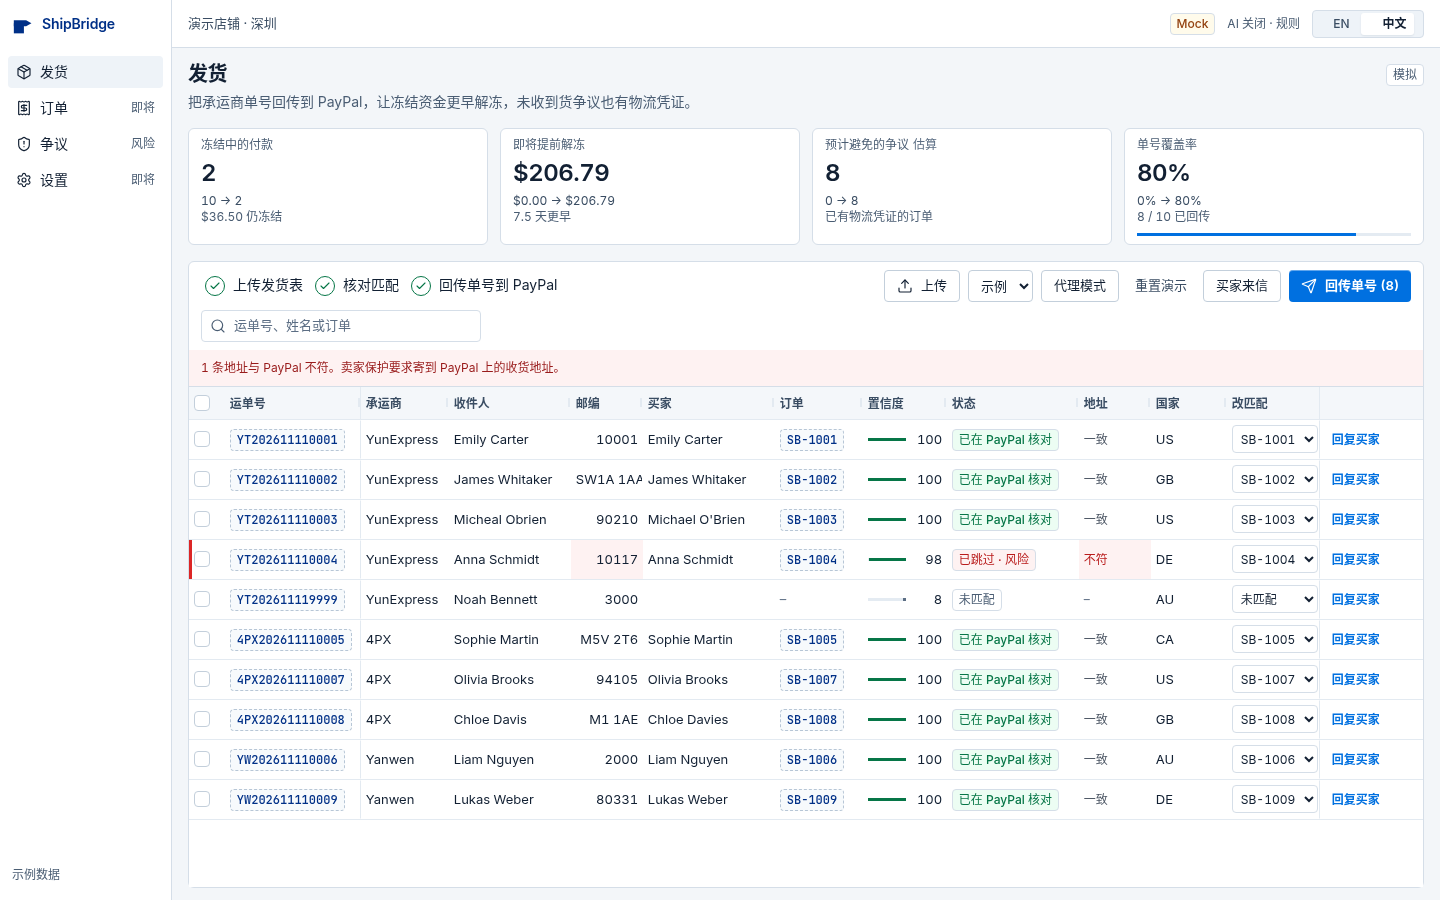
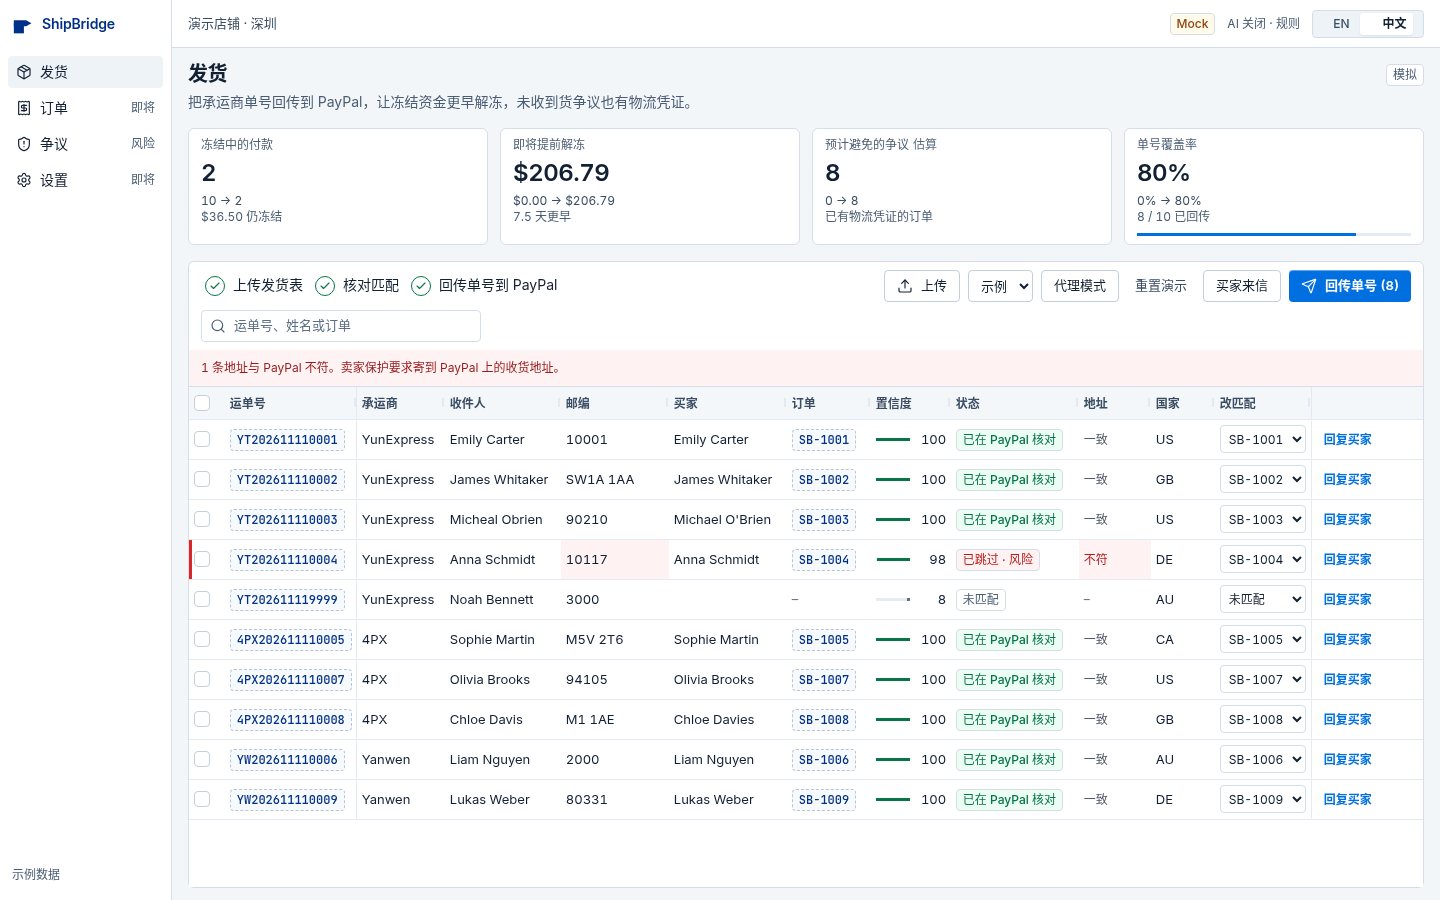
Move the sync toast clear of the grid and stop postcode clipping.
The toast sits under the top bar, postcodes are left-aligned and wide enough for SW1A 1AA, and the hero capture includes padding.

diff --git a/components/MatchGrid.tsx b/components/MatchGrid.tsx
@@ -151,7 +151,7 @@ function PostcodeCell(props: ICellRendererParams<GridRow, string, GridContext>) 
   const mismatch = Boolean(row && order && postcodeMismatch(row.postcode, order.postalCode));
   const title = row && mismatch ? mismatchTitle(row, order, props.context.copy) : undefined;
   return (
-    <span title={title} data-mismatch={mismatch ? "postcode" : undefined} className="block text-right tabular-nums">
+    <span title={title} data-mismatch={mismatch ? "postcode" : undefined} className="block text-left">
       {props.value || EMPTY}
     </span>
   );
@@ -269,8 +269,8 @@ export default function MatchGrid({
       {
         field: "trackingNumber",
         headerName: copy.colTracking,
-        width: 136,
-        minWidth: 132,
+        width: 132,
+        minWidth: 128,
         maxWidth: 148,
         pinned: "left",
         suppressSizeToFit: true,
@@ -278,13 +278,12 @@ export default function MatchGrid({
         cellRenderer: TrackingCell,
       },
       { field: "carrier", headerName: copy.colCarrier, width: 88, minWidth: 84 },
-      { field: "recipientName", headerName: copy.colRecipient, minWidth: 122, flex: 1, tooltipField: "recipientName" },
+      { field: "recipientName", headerName: copy.colRecipient, width: 116, minWidth: 116, flex: 1, tooltipField: "recipientName" },
       {
         field: "postcode",
         headerName: copy.colPostcode,
-        width: 72,
-        minWidth: 68,
-        type: "rightAligned",
+        width: 108,
+        minWidth: 104,
         suppressSizeToFit: true,
         cellRenderer: PostcodeCell,
         cellStyle: riskCellStyle,
@@ -295,16 +294,16 @@ export default function MatchGrid({
           return row?.postcode || undefined;
         },
       },
-      { field: "buyerName", headerName: copy.colBuyer, minWidth: 132, flex: 1.15, tooltipField: "buyerName" },
-      { field: "matchedOrderId", headerName: copy.colOrder, width: 88, minWidth: 84, cellRenderer: OrderCell },
-      { field: "confidence", headerName: copy.colConfidence, width: 84, minWidth: 80, type: "rightAligned", cellRenderer: ConfidenceCell },
-      { headerName: copy.colSync, width: 132, minWidth: 124, suppressSizeToFit: true, cellRenderer: StatusCell },
+      { field: "buyerName", headerName: copy.colBuyer, width: 112, minWidth: 112, flex: 1.15, tooltipField: "buyerName" },
+      { field: "matchedOrderId", headerName: copy.colOrder, width: 84, minWidth: 80, cellRenderer: OrderCell },
+      { field: "confidence", headerName: copy.colConfidence, width: 80, minWidth: 76, type: "rightAligned", cellRenderer: ConfidenceCell },
+      { headerName: copy.colSync, width: 128, minWidth: 124, suppressSizeToFit: true, cellRenderer: StatusCell },
       { headerName: copy.colAddress, width: 72, minWidth: 68, cellRenderer: AddressCell, cellStyle: riskCellStyle },
       {
         field: "country",
         headerName: copy.colCountry,
-        width: 76,
-        minWidth: 76,
+        width: 64,
+        minWidth: 60,
         suppressSizeToFit: true,
         cellRenderer: CountryCell,
         cellStyle: riskCellStyle,
@@ -319,9 +318,9 @@ export default function MatchGrid({
       { headerName: copy.colOverride, width: 96, minWidth: 92, suppressSizeToFit: true, cellRenderer: OverrideCell, sortable: false },
       {
         headerName: "",
-        width: 104,
-        minWidth: 100,
-        maxWidth: 112,
+        width: 112,
+        minWidth: 108,
+        maxWidth: 128,
         pinned: "right",
         suppressSizeToFit: true,
         cellRenderer: ReplyCell,

diff --git a/components/AppShell.tsx b/components/AppShell.tsx
@@ -627,7 +627,7 @@ export default function AppShell() {
         {view === "shipments" ? (
           <div className="flex min-h-0 flex-1 flex-col px-4 py-3">
             <div data-testid="hero">
-              <div className="flex items-start justify-between gap-4">
+              <div className={`flex items-start justify-between gap-4 ${toasts.length ? "pr-[336px]" : ""}`}>
                 <div className="min-w-0">
                   <h1 className="text-[20px] font-semibold leading-7 tracking-tight">{copy.pageTitle}</h1>
                   <p data-testid="hero-pitch" className="mt-1 max-w-3xl text-[14px] leading-5 text-sb-muted">
@@ -940,7 +940,7 @@ export default function AppShell() {
         </div>
       ) : null}
 
-      <div className="pointer-events-none fixed right-4 bottom-4 z-30 flex w-[320px] max-w-[calc(100vw-2rem)] flex-col gap-2">
+      <div className="pointer-events-none fixed top-14 right-4 z-30 flex w-[320px] max-w-[calc(100vw-2rem)] flex-col gap-2">
         {toasts.map((toast) => (
           <button
             key={toast.id}

diff --git a/STATUS.md b/STATUS.md
@@ -14,7 +14,7 @@ Updated 2026-11-12 after the token-and-waybill visual pass (mock and sandbox).
 - Mock mode is stateless on the server. Orders are seeded from the fixed catalog. The browser keeps orders and trackers in `localStorage`. Sync and read-back send that state and get the next copy back. Read-back is true only when the tracking number is on the returned order. **Reset demo** clears `localStorage`. Sandbox and live mode stay on server-side REST.
 - After a verified sync, payments on hold count down and “Releasing early” counts up, with a short green tint. Sample run: 10 → 2 on hold, $0.00 → $206.79 releasing early, 7.5 days earlier. “Simulated” is a muted tag. Disputes avoided (est.) is the synced count. Tracking coverage is synced/total.
 - Sandbox seed (`scripts/seed-sandbox.ts`) creates COMPLETED captures with `payment_source.card` and `PayPal-Request-Id`. The gitignored registry `.data/sandbox-orders.json` is what `GET /api/orders` lists, via `GET /v2/checkout/orders/{id}`. Transaction Search is not used. `scripts/capture.ts` finishes any order that still needs a buyer approval.
-- Buyer reply opens a 480px right drawer: order header, pasted email, Chinese explanation (source “Rules” when AI is off), English draft with Copy, and a vertical timeline. Esc or X closes it. Sync results use a small bottom-right toast.
+- Buyer reply opens a 480px right drawer: order header, pasted email, Chinese explanation (source “Rules” when AI is off), English draft with Copy, and a vertical timeline. Esc or X closes it. Sync results use a small top-right toast under the top bar.
 - `POST /api/agent`: Vercel AI SDK tools. In sandbox/live, `@paypal/agent-toolkit` `PayPalAgentToolkit` tools are registered when the package loads. Mock mode and toolkit failures use the direct client against the orders sent with the request. No LLM key runs the same sync deterministically.
 - `GET /api/health`, vitest tests, `scripts/verify.mjs`, `scripts/screenshot.mjs`.
 
@@ -92,7 +92,6 @@ Fixed those three and re-shot.
 Left on purpose:
 
 - The drawer covers the right KPI tiles. The timeline’s later dots continue under the fold; the first scans are on screen.
-- The sync toast sits over the last grid row so the verified count stays visible.
 - Under a 10-row grid the card still fills the viewport.
 - 中文 keeps Mock / Sandbox in English. Noto Sans CJK SC is installed on this machine; fonts are not committed.
 - No purple gradients, glass, emoji, sparkle icons, uppercase eyebrows, or 01/02/03 section numbers. Stepper circles are the only numbered marks.
@@ -115,6 +114,21 @@ Left on purpose:
 - 中文 mode keeps the environment words Mock / Sandbox in English. CJK labels in the nav, KPIs, stepper, and grid are not clipped. Noto Sans CJK SC is installed on this machine; fonts are not committed.
 - “Micheal Obrien” next to “Michael O'Brien” is the sample name variant, not a clipped cell.
 - No purple gradients, glass, emoji, or marketing hero remain. The primary button is the only strong blue.
+
+## Layout pass (2026-11-12)
+
+- The sync toast is top-right, under the top bar. It does not cover the grid. While it is open, the title row keeps 336px clear so the Simulated chip stays visible.
+- Postcodes are left-aligned text. The column is 108px (`minWidth` 104), enough for `SW1A 1AA` and `M5V 2T6` at 13px plus cell padding, with space before Buyer.
+- `scripts/screenshot.mjs` clips `hero.png` with 16px of padding around the title and KPI strip (the clip starts at the bottom of the top bar). The title is no longer flush with the image edge.
+- Clipping audit at 1440×900 after sync, in EN and 中文: no `scrollWidth > clientWidth` on header labels, `.ag-cell` / `.ag-cell-value`, waybill chips, status pills, address, country, override selects, or the reply action. Sample values checked include tracking numbers, `YunExpress`, `James Whitaker`, `Michael O'Brien`, `SW1A 1AA`, `M5V 2T6`, `Verified in PayPal` / `已在 PayPal 核对`, `Skipped — risk`, `Mismatch`, `Reply to buyer` / `回复买家`, and `No match`. The header resize handle draws 3px outside the header cell; that is not label clipping. Nothing is deliberately ellipsized.
+
+Verified this pass:
+
+- `npm test`: 10 passed.
+- `npx next build`: passed (Next.js 15.5.29).
+- `PAYPAL_MODE=mock npm run start` on port 3000, then `node scripts/verify.mjs`: **ALL PASS**.
+- `npm run start -- -p 3001` (no shell `PAYPAL_MODE`; health `paypal=sandbox`), then `SHIPBRIDGE_URL=http://127.0.0.1:3001 node scripts/verify-sandbox.mjs`: **ALL PASS**. Re-push stayed on read-back for `YUNEXPRESS`, `FOUR_PX_EXPRESS`, and `YANWEN`. Anna Schmidt’s number was not written.
+- Screenshots refreshed at 1440×900: `home.png`, `hero.png`, `matched-grid.png`, `after-sync.png`, `buyer-drawer.png`, `chinese.png`, `sandbox-synced.png`.
 
 ## Not verified
 
